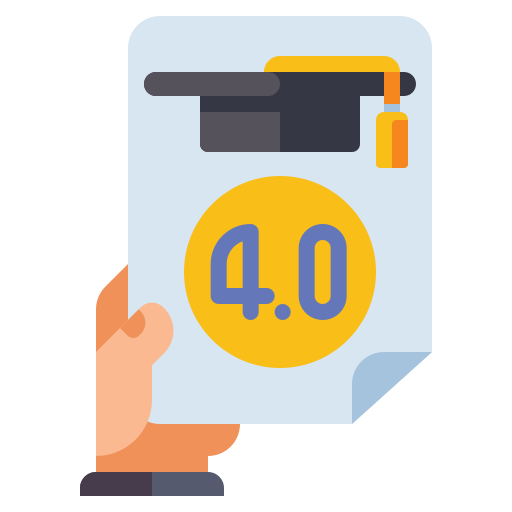
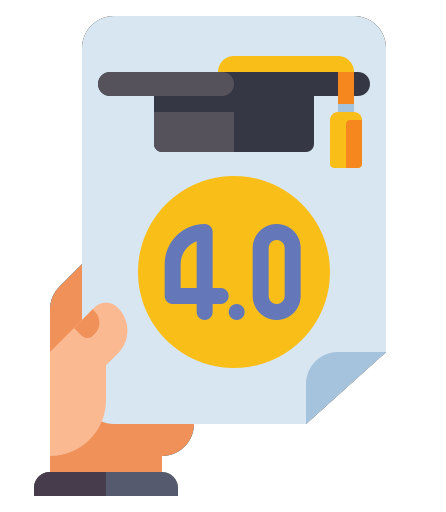
Modified index,html and added scripts.js

diff --git a/index.html b/index.html
@@ -11,6 +11,8 @@
 
   <link rel="stylesheet" type="text/css" href="stylesheet.css">
   <link rel="icon" type="image/png" href="images/favicon.png">
+  <script src="scripts.js"></script>
+
 </head>
 
 <body>
@@ -263,10 +265,44 @@
                 <td style="padding:20px;width:100%;vertical-align:middle">
                   <heading>Misc</heading>
                   <p class="bd-text">
-                    In my free time (which is hard to come by these days), I enjoy anime, electronic and new-age music, and occasional memoir/fiction freewriting. Hopefully, some of my nonscientific writing will live on this website someday, but for now, here goes:
+                    In my free time (which is hard to come by these days), I enjoy anime, electronic and new-age music, and occasional memoir/fiction freewriting. I have also taken to learning Japanese (thanks to anime and because, why not?).
                   </p>
                 </td>
               </tr>
+            </tbody>
+          </table>
+          <table
+            style="width:100%;border:0px;border-spacing:0px;border-collapse:separate;margin-right:auto;margin-left:auto;">
+            <tbody>
+
+              <tr onmouseout="refnerf_stop()" onmouseover="refnerf_start()">
+                <td style="padding:20px;width:25%;vertical-align:middle">
+                  <div class="three">
+
+                    <a href="https://www.flaticon.com/premium-icon/japanese_5286023?term=japanese&page=1&position=20&page=1&position=20&related_id=5286023&origin=style" target="_blank"><img src='images/japanese.png' width="140"></a>
+                  </div>
+
+                </td>
+                <td style="padding:20px;width:75%;vertical-align:middle">
+                  <a>
+                    <span class="japanese"><papertitle>Watashi no Nihongo gakushu jani!</papertitle></span>
+                    <span class="english"><papertitle>My Japanese Learning Journey!</papertitle></span>
+                  </a>
+                  <br>
+                  2022
+                  <!-- <br>
+                  <a href="https://github.com/coenwerem/gpa-calculation-guide">code</a>
+                  /
+                  <a href="data/GPA Calculation Guide.pdf">pdf</a> -->
+                  <p></p>
+                  <p><div class="countup" id="countup1">
+                    <span class="timeel days">00</span>
+                    <span class="timeel timeRefDays">days and going strong.</span>
+
+                   </p>
+                </td>
+              </tr>
+
             </tbody>
           </table>
           <table

diff --git a/scripts.js b/scripts.js
@@ -1,0 +1,31 @@
+/*
+ * Basic Count Up from Date and Time
+ * Author: @mrwigster / https://guwii.com/bytes/count-date-time-javascript/
+ */
+window.onload = function() {
+    // Month Day, Year Hour:Minute:Second, id-of-element-container
+    countUpFromTime("June 1, 2022 00:00:00", 'countup1'); // ****** Change this line!
+  };
+  function countUpFromTime(countFrom, id) {
+    countFrom = new Date(countFrom).getTime();
+    var now = new Date(),
+        countFrom = new Date(countFrom),
+        timeDifference = (now - countFrom);
+      
+    var secondsInADay = 60 * 60 * 1000 * 24,
+        secondsInAHour = 60 * 60 * 1000;
+      
+    days = Math.floor(timeDifference / (secondsInADay) * 1);
+    hours = Math.floor((timeDifference % (secondsInADay)) / (secondsInAHour) * 1);
+    mins = Math.floor(((timeDifference % (secondsInADay)) % (secondsInAHour)) / (60 * 1000) * 1);
+    secs = Math.floor((((timeDifference % (secondsInADay)) % (secondsInAHour)) % (60 * 1000)) / 1000 * 1);
+  
+    var idEl = document.getElementById(id);
+    idEl.getElementsByClassName('days')[0].innerHTML = days;
+    idEl.getElementsByClassName('hours')[0].innerHTML = hours;
+    idEl.getElementsByClassName('minutes')[0].innerHTML = mins;
+    idEl.getElementsByClassName('seconds')[0].innerHTML = secs;
+  
+    clearTimeout(countUpFromTime.interval);
+    countUpFromTime.interval = setTimeout(function(){ countUpFromTime(countFrom, id); }, 1000);
+  }

diff --git a/stylesheet.css b/stylesheet.css
@@ -133,3 +133,41 @@ span.highlight {
 .bd-text {
   text-align: justify;
 }
+
+/* Counter Styling */
+.countup {
+  text-align: left;
+  margin-bottom: 0px;
+}
+.countup .timeel {
+  display: inline;
+  padding: 5px;
+  background: #1772d0;
+  margin: 0;
+  color: white;
+  min-width: 2.8rem;
+  margin-left: 0px;
+  border-radius: 0px 0 10px 0px;
+}
+.countup span[class*="timeRef"] {
+  border-radius: 0 0px 0px 0;
+  margin-left: 0;
+  background: transparent;
+  color: black;
+}
+
+a .english {
+  display: none;
+  /* position: relative; */
+}
+
+a:hover .japanese{
+ display: none;
+}
+
+a:hover .english { 
+  /* position: absolute; */
+  /* content: 'My Japanese Learning Journey'; */
+  /* font-weight: bold; */
+  display: inline;
+}
